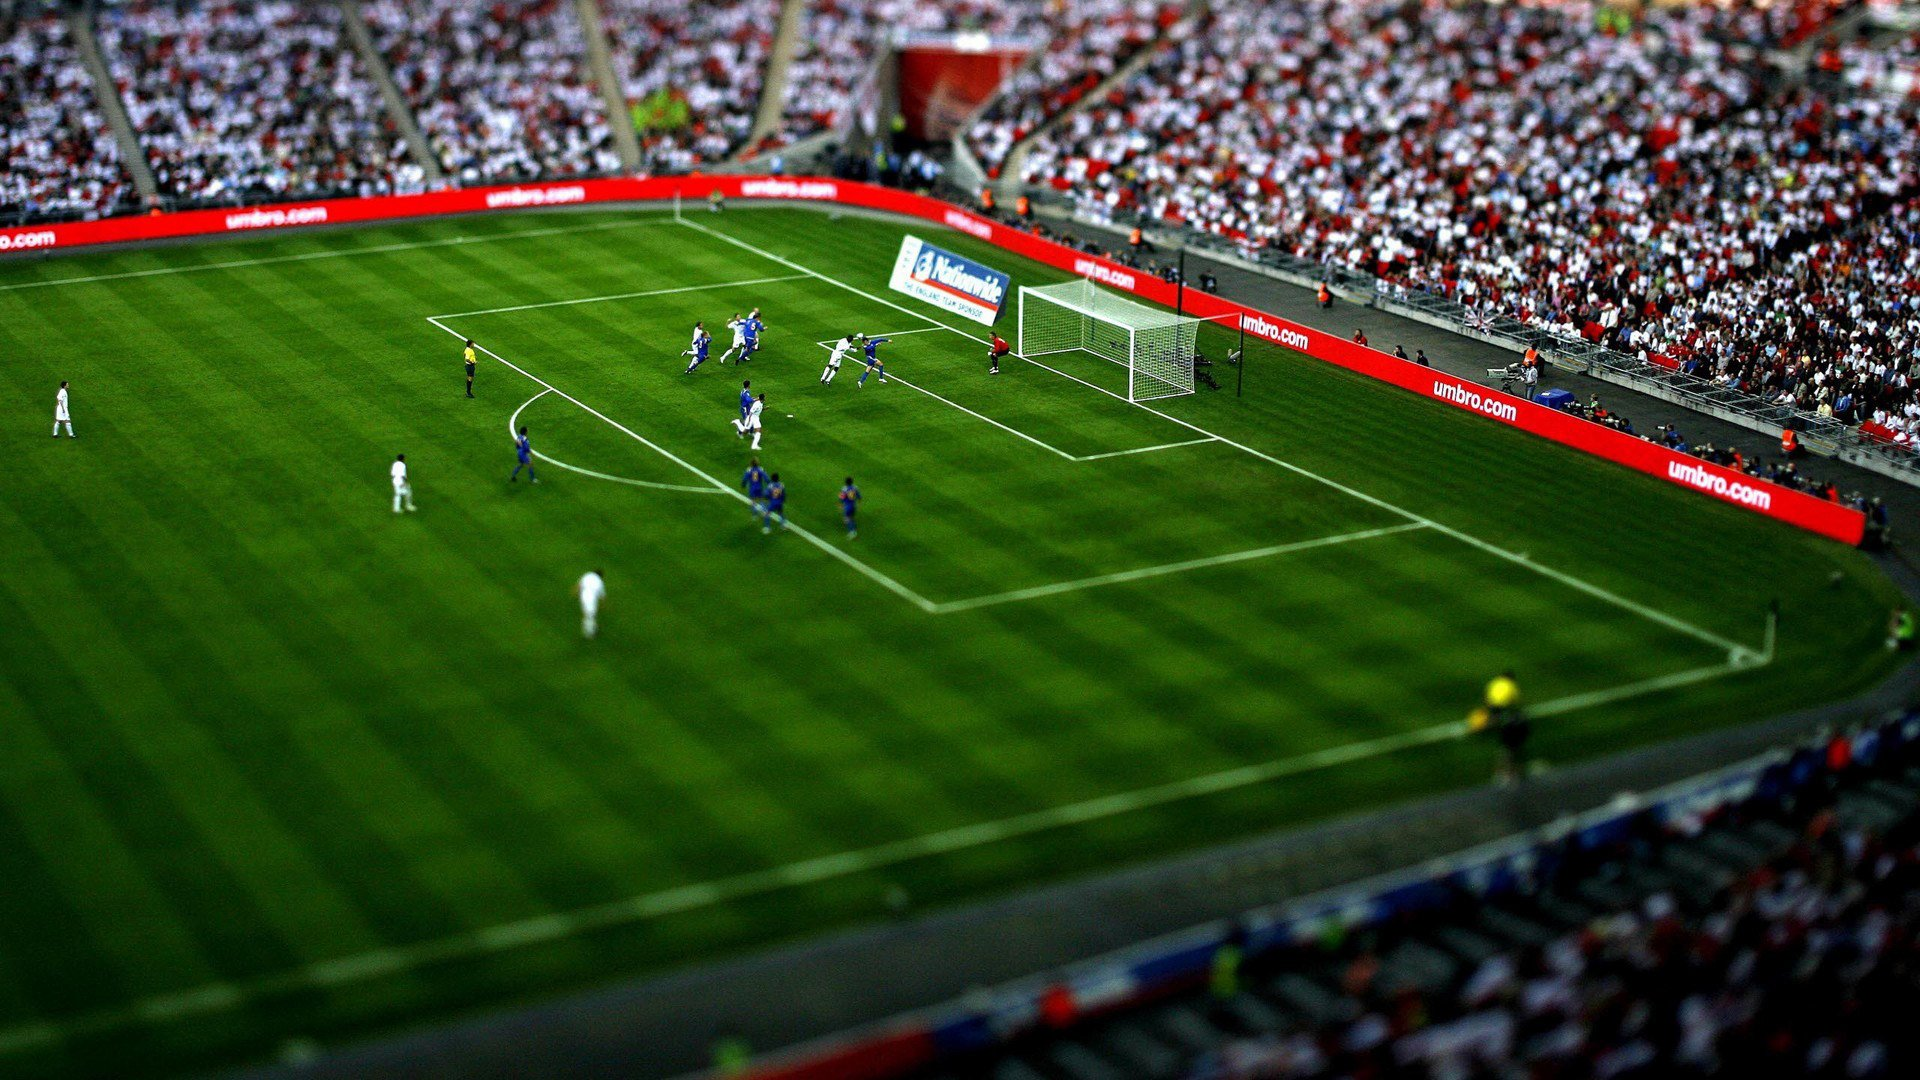
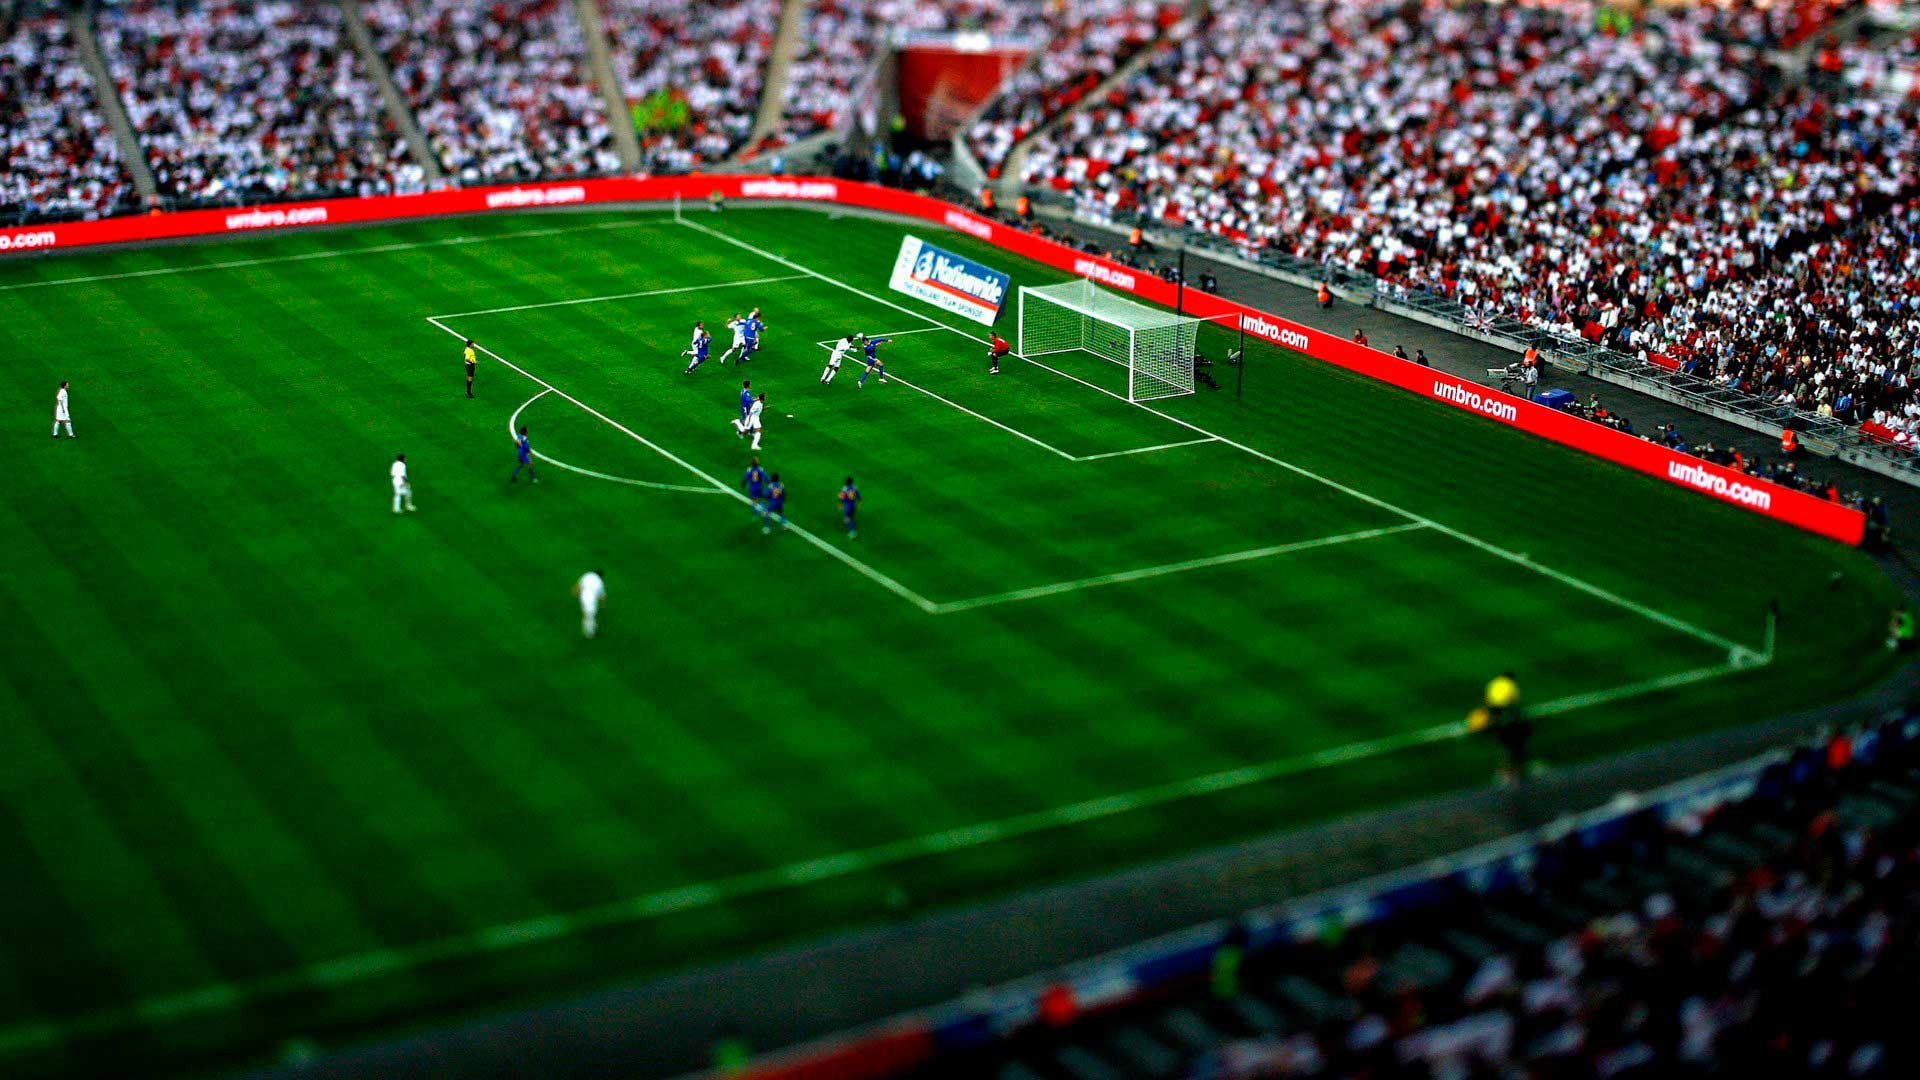
optimized images

diff --git a/js/game.js b/js/game.js
@@ -42,28 +42,7 @@ class Game{
     this.crowd.play()
 
     // Random defense without overlapping
-    while(this.defenses.length < this.numberDefenses){
-      // The maximum is exclusive and the minimum is inclusive
-      // Math.floor(Math.random() * (max - min)) + min
-      const randomX = Math.floor( (Math.random() * ((this.maxRandomX) - this.minRandomX)) + this.minRandomX)
-      const randomY = Math.floor( (Math.random() * ((this.maxRandomY) - this.minRandomY)) + this.minRandomY)
-      
-      const defense = new Defense(this.canvas, randomX, randomY)
-      
-      let overapping = false
-
-      for (let j = 0; j < this.defenses.length; j++) {
-        const other = this.defenses[j]
-        const d = this.distance(defense.x, defense.y, other.x, other.y)
-        if(d < defense.radius + other.radius){
-          overapping = true
-          break
-        }
-      }
-      if(!overapping){
-        this.defenses.push(defense)
-      }
-    }
+    this.randomDefenses(this.numberDefenses)
 
     const loop = () => {
       this.updateScore()
@@ -194,5 +173,31 @@ class Game{
     this.isTopPress = false
     this.isLeftPress = false
     this.isRightPress = false
+  }
+
+  // Random defense without overlapping
+  randomDefenses(numberDefenses){
+    while(this.defenses.length < numberDefenses){
+      // The maximum is exclusive and the minimum is inclusive
+      // Math.floor(Math.random() * (max - min)) + min
+      const randomX = Math.floor( (Math.random() * ((this.maxRandomX) - this.minRandomX)) + this.minRandomX)
+      const randomY = Math.floor( (Math.random() * ((this.maxRandomY) - this.minRandomY)) + this.minRandomY)
+      
+      const defense = new Defense(this.canvas, randomX, randomY)
+      
+      let overapping = false
+
+      for (let j = 0; j < this.defenses.length; j++) {
+        const other = this.defenses[j]
+        const d = this.distance(defense.x, defense.y, other.x, other.y)
+        if(d < defense.radius + other.radius){
+          overapping = true
+          break
+        }
+      }
+      if(!overapping){
+        this.defenses.push(defense)
+      }
+    }
   }
 }

diff --git a/js/main.js b/js/main.js
@@ -29,7 +29,7 @@ const main = () => {
           </ul>
           <button class="js-start">Start game</button>
         </article>
-        <img class="img-goal img-medium" src="./img/goal.png" alt="goal" />
+        <img class="img-goal img-medium" src="./img/goal.jpg" alt="goal" />
       </section>`
     )
     const buttonStart = document.querySelector('.js-start')
@@ -116,7 +116,7 @@ const main = () => {
         <h1>Game Over <span role="image" aria-label="disappointed">😞</span></h1>
         <h3>Keep training! <span role="image" aria-label="muscle">💪🏼</span></h3>
         <button class="js-restart">Restart</button>
-        <img class="img-goal img-small" src="./img/goal.png" alt="goal" />
+        <img class="img-goal img-small" src="./img/goal.jpg" alt="goal" />
       </section>`
     )
     // Go back to the game
@@ -133,7 +133,7 @@ const main = () => {
           <span role="image" aria-label="trophy">🏆</span>
         </h3>
         <button class="js-restart">Restart</button>
-        <img class="img-goal img-small" src="./img/goal.png" alt="goal" />
+        <img class="img-goal img-small" src="./img/goal.jpg" alt="goal" />
       </section>`
     )
     const scoredGoals = document.querySelector('.scored-goals')

diff --git a/css/style.css b/css/style.css
@@ -102,7 +102,7 @@ button:hover{
   position: relative;
   width: 600px;
   height: 500px;
-  background-image: url('../img/football-pitch.png');
+  background-image: url('../img/football-pitch.jpg');
   background-position: center;
   background-size: cover;
   background-repeat: no-repeat;
